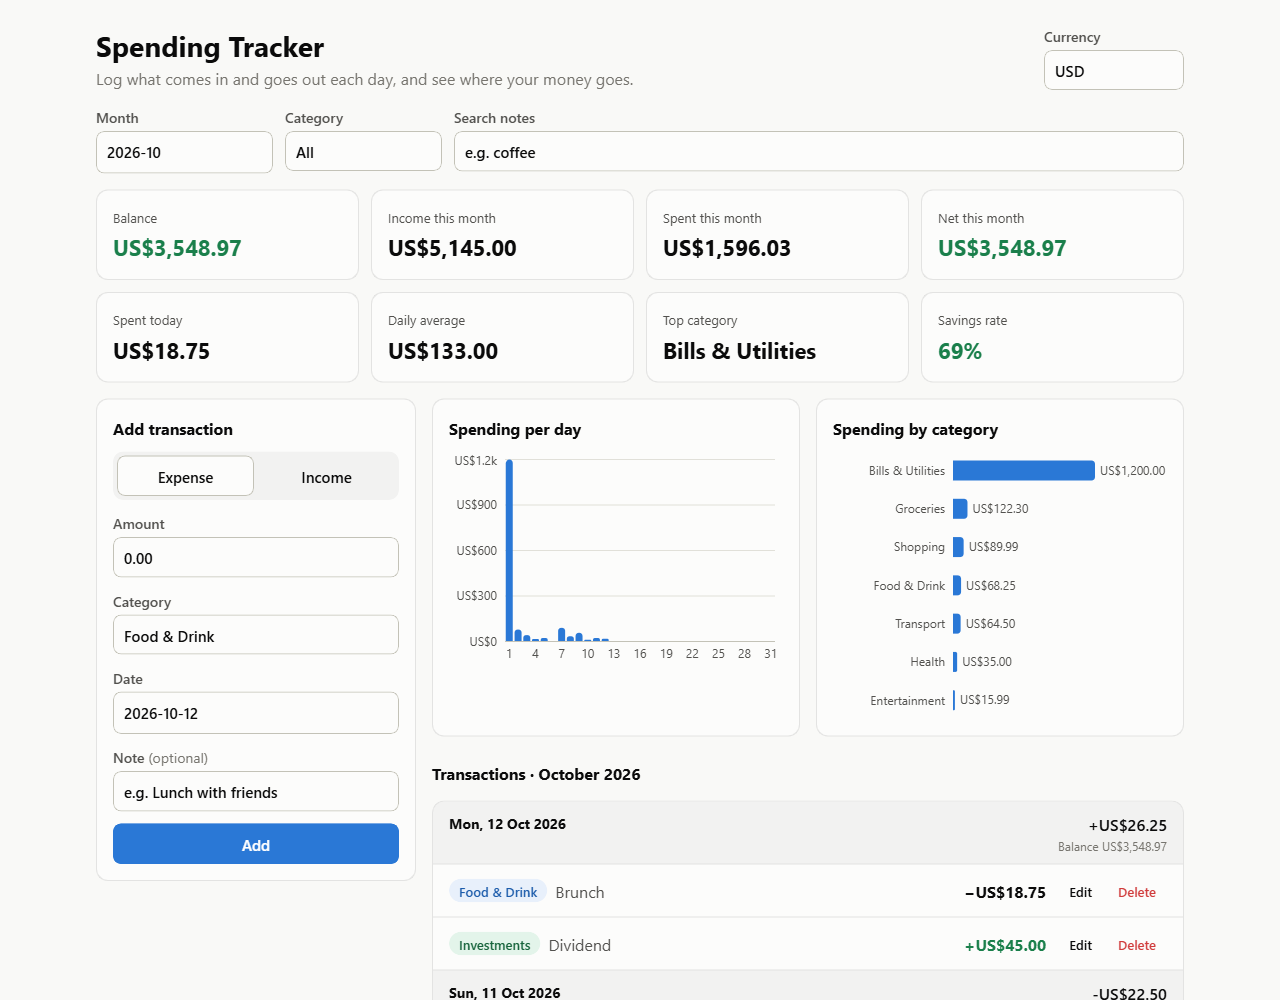
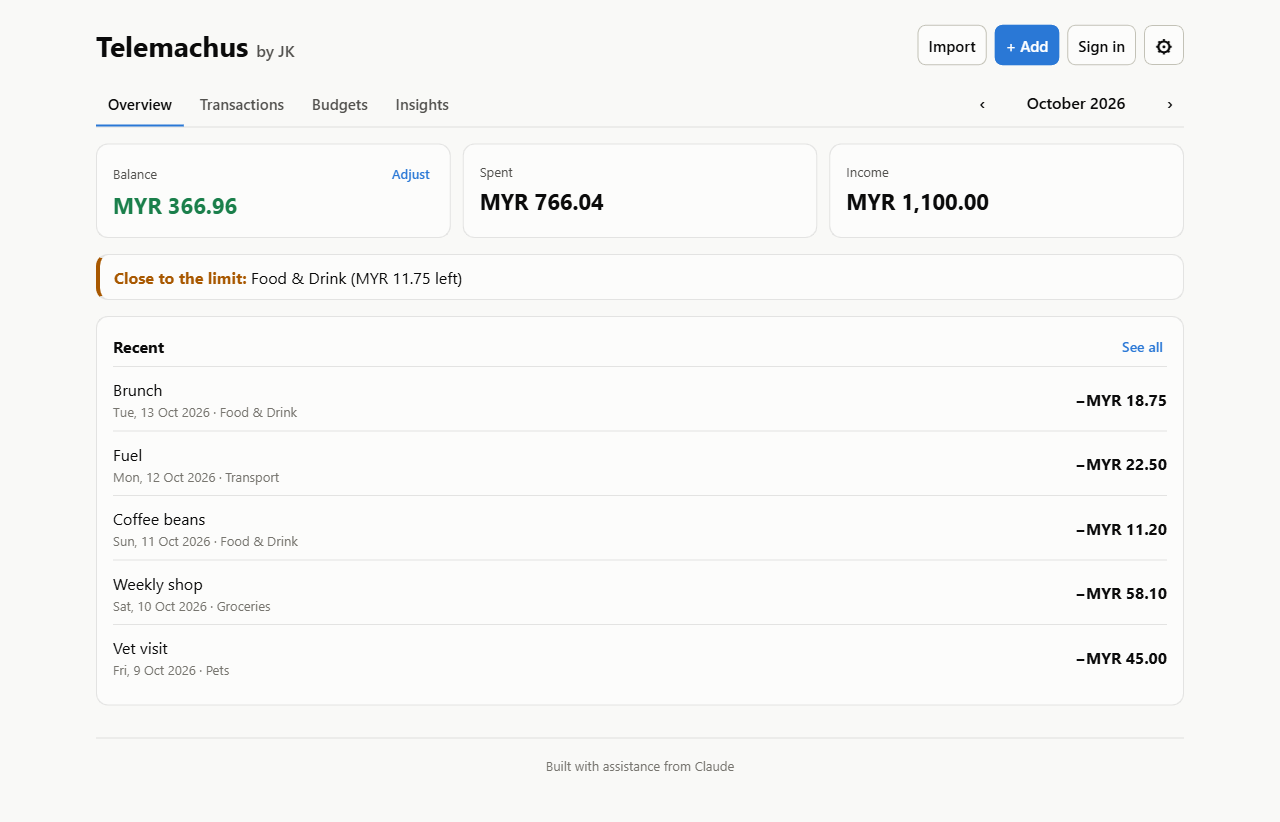
Refresh the README screenshots for the current design (#14)

diff --git a/README.md b/README.md
@@ -4,7 +4,9 @@ A web app for logging daily income and spending, tracking your balance, and seei
 
 **Live demo:** https://ngjyekang11.github.io/Telemachus/
 
-![Screenshot of the Telemachus dashboard](docs/screenshot.png)
+![The Telemachus overview: balance, spending, income, a budget warning and recent transactions](docs/screenshot.png)
+
+![The Insights page: monthly stats, charts of spending per day and per category, and a comparison with last month](docs/insights.png)
 
 Built with assistance from [Claude](https://claude.com/claude-code).
 
